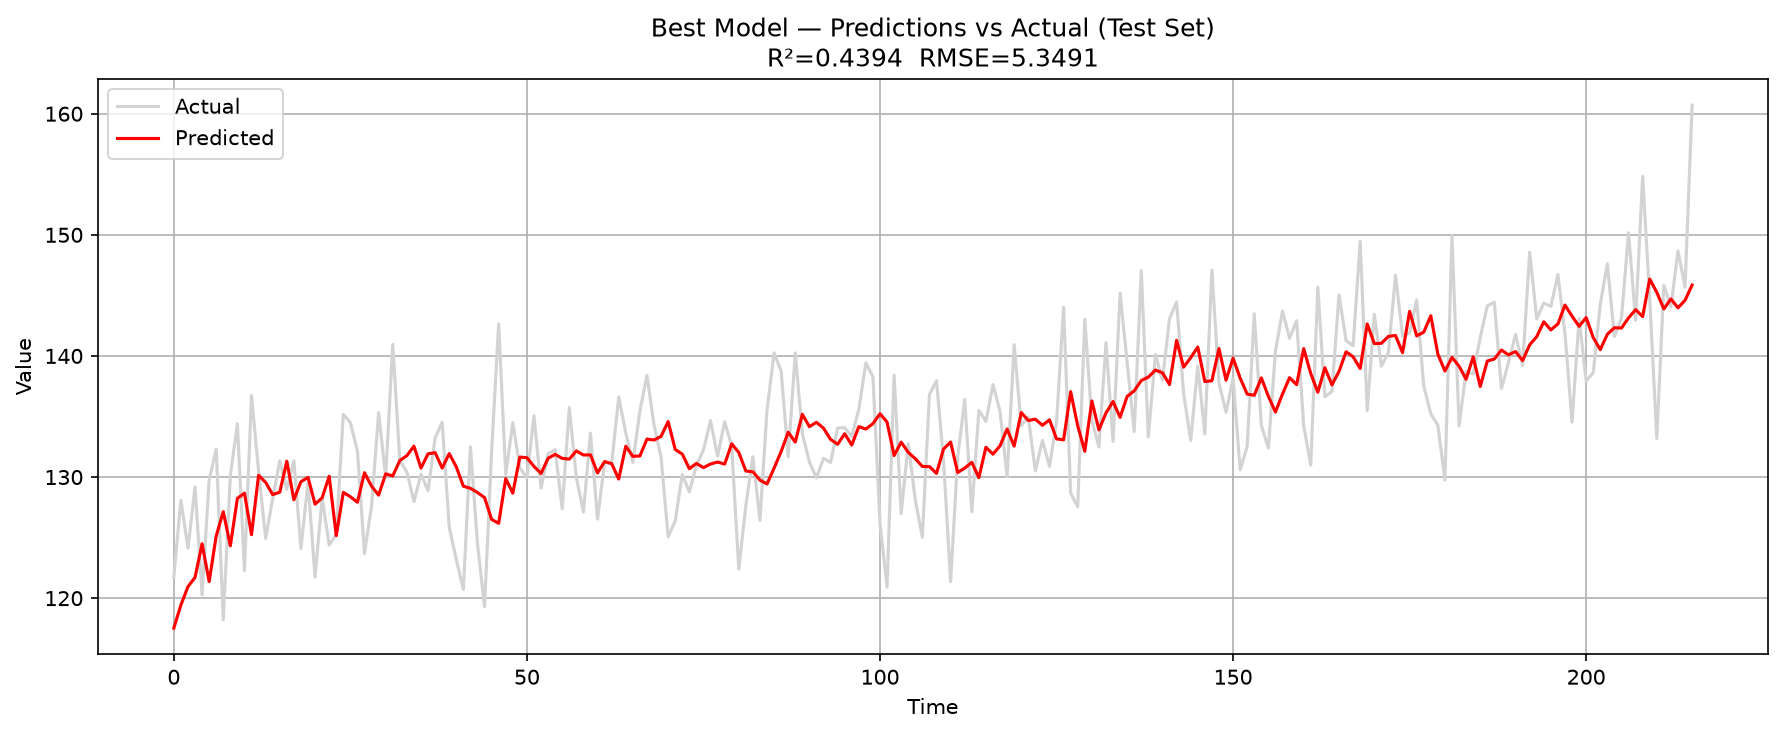
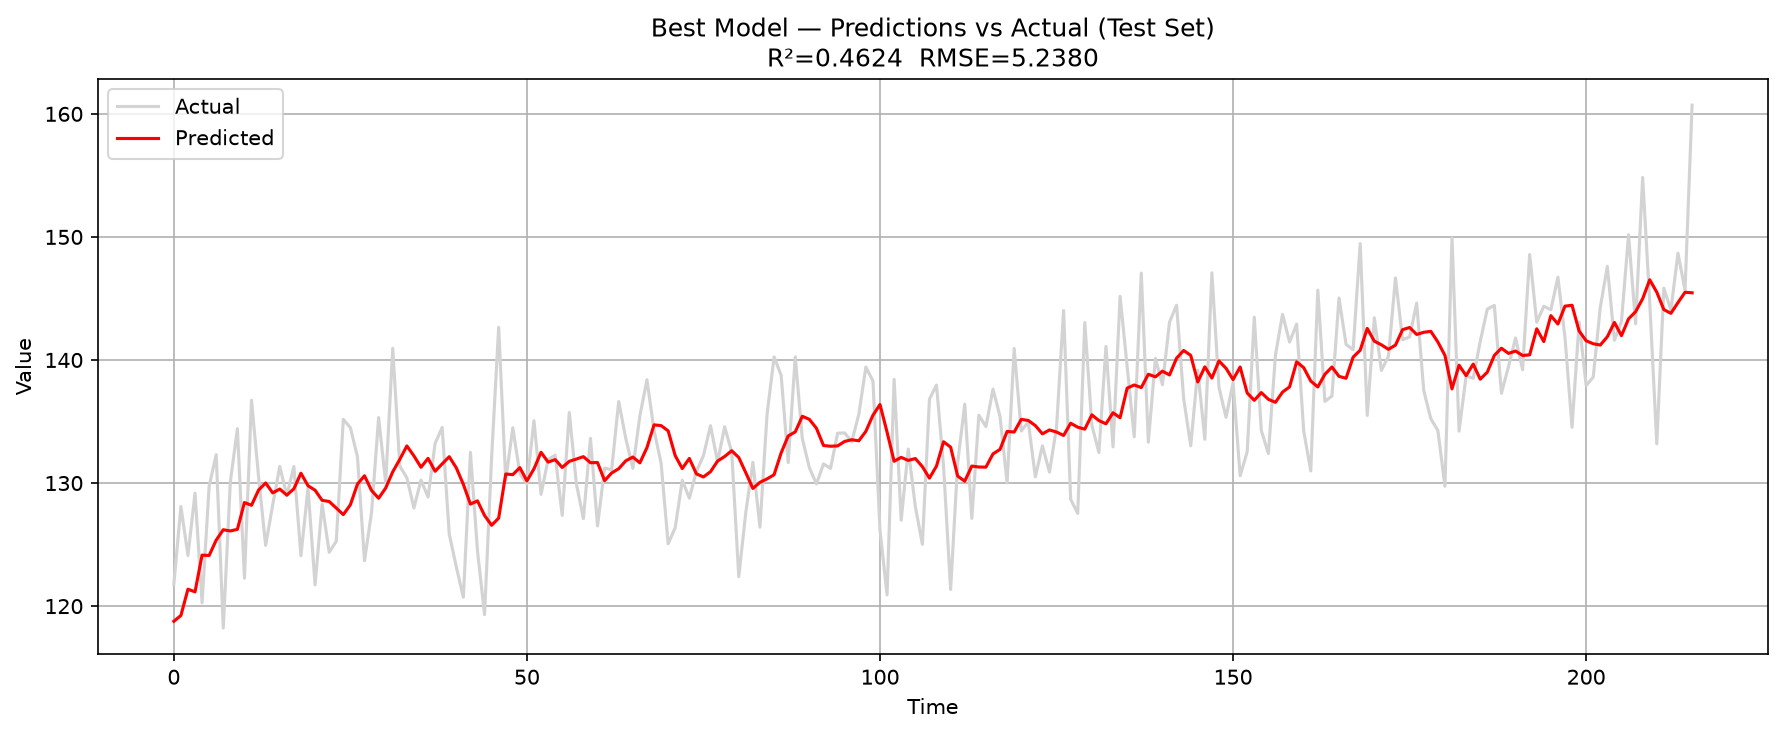
ai-note70: update v9 to select by validation loss instead of R²
- Inline code blocks: train_one_model returns 5 values (incl. best_val_loss)
- Best model selected with min(val_loss) instead of max(r2)
- Test set evaluated ONCE after winner is chosen (not per trial)
- Updated What-you-should-see output block and chart captions
- Updated full script dump at bottom of page
- Regenerated v9 loss, predictions, and bar-chart images
- Replaced time_09.py in Folder-AI-Forecast.zip with local val_loss version

diff --git a/notes/ai-note70.html b/notes/ai-note70.html
@@ -162,57 +162,67 @@
   <pre class="code-block"><code>learning_rates = [0.001, 0.01, 0.1]
 
 for lr in learning_rates:
-    model, t_losses, v_losses, epochs = train_one_model(lr)
-    r2, rmse, mae, preds, actuals = evaluate_on_test(model)</code></pre>
+    model, t_losses, v_losses, epochs, val_loss = train_one_model(lr)</code></pre>
   <p>
-    Each pass of the loop trains a complete model and grades it on the test days with version 8's
-    four measures. The results are collected in a list so they can be compared and sorted
-    afterwards.
+    Each pass of the loop trains a complete model. The function now returns five values instead
+    of four: the model, its training and validation loss curves, the actual number of epochs run,
+    and the best validation loss seen during training. We collect just that validation-loss score
+    from each run &mdash; R&sup2; on the test days is only evaluated once, after the winner is picked.
+    The results go into a list so they can be compared and sorted afterwards.
   </p>
 
   <h3>5. Keep the winner</h3>
-  <pre class="code-block"><code>best = max(results, key=lambda r: r["r2"])
+  <pre class="code-block"><code>best = min(results, key=lambda r: r["val_loss"])
 torch.save(best["model"].state_dict(), "best_model.pt")</code></pre>
   <p>
-    <code>max</code> selects a result from the <code>results</code> list. The
-    <code>key=lambda r: r["r2"]</code> part tells Python to compare the results by their R&sup2;
-    values, so the result with the highest R&sup2; is stored in <code>best</code>.
+    <code>min</code> selects a result from the <code>results</code> list. The
+    <code>key=lambda r: r["val_loss"]</code> part tells Python to compare the results by their
+    validation-loss scores, so the result with the <em>lowest</em> validation loss &mdash; the
+    winner &mdash; is stored in <code>best</code>. We use validation loss (from days the model was
+    never trained on) rather than the test set, because looking at the test set before choosing
+    would be "cheating" with data we should only use for a final honest check.
     <code>torch.save</code> then writes that model's learned weights to a file called
     <code>best_model.pt</code>. A later program can load this file and reuse the model without
     training it again.
   </p>
 
   <h2>What you should see</h2>
-  <pre class="code-block no-copy"><code>      lr   epochs        R²        RMSE         MAE
---------------------------------------------------
-   0.001       68    0.4384      5.3538      4.2973
-    0.01       37    0.4394      5.3491      4.2547
-     0.1       12    0.0881      6.8221      5.3624
+  <pre class="code-block no-copy"><code>      lr   epochs      Val Loss
+--------------------------------
+   0.001       73       39.9478
+    0.01       26       40.9754
+     0.1       73     3136.5420
 
-Best learning rate: 0.01  (R² = 0.4394)
+Best learning rate: 0.001  (Validation MSE = 39.9478)
+
+Test Set Metrics:
+  MAE:  4.3036
+  RMSE: 5.3494
+  R²:   0.4393
 Best model saved → best_model.pt</code></pre>
   <p>
     Your numbers will differ, but the pattern is what matters. The two smaller learning rates reach
-    a similar quality, and 0.01 reaches it in 37 epochs rather than 68. Both give a similar result,
-    but 0.01 needs fewer epochs. The large rate of 0.1 stops after 12 epochs with an R&sup2; of
-    0.09, because each adjustment is too large for the errors to become smaller steadily.
+    a similar low validation loss around 40, and 0.01 reaches it in 26 epochs rather than 73. Both
+    give a similar test-set R&sup2; of about 0.44, but 0.01 needs fewer epochs. The large rate of
+    0.1 has a validation loss thirty times higher, because each adjustment is too large for the
+    errors to become smaller steadily.
   </p>
   <p>
     Two things improved since version 8. R&sup2; moved from 0.24 to about 0.44, and much of that
     improvement came from early stopping rather than from the learning rate: keeping the best
-    weights instead of the final ones raises the score noticeably. Training also finishes in 37
+    weights instead of the final ones raises the score noticeably. Training also finishes in 26
     epochs instead of 100.
   </p>
-  <figure class="exhibit"><img src="/images/forecast-v9-loss.png" alt="Loss curves for the best run, falling and then flattening, with training and validation lines close together" style="max-width:100%; height:auto;"><figcaption>Loss curves of the winning run, stopped at epoch 37</figcaption></figure>
+  <figure class="exhibit"><img src="/images/forecast-v9-loss.png" alt="Loss curves for the best run, falling and then flattening, with training and validation lines close together" style="max-width:100%; height:auto;"><figcaption>Loss curves of the winning run, stopped at epoch 26</figcaption></figure>
   <figure class="exhibit"><img src="/images/forecast-v9-predictions.png" alt="Actual test-day sales in grey and predicted values in red, the red line tracking the grey more closely than before" style="max-width:100%; height:auto;"><figcaption>Actual (grey) and predicted (red) values for the test days, best run</figcaption></figure>
-  <figure class="exhibit"><img src="/images/forecast-v9-r2-bar.png" alt="Bar chart of R squared for the three learning rates, the middle bar green as the best" style="max-width:100%; height:auto;"><figcaption>R&sup2; for the three learning rates, green for the winner</figcaption></figure>
+  <figure class="exhibit"><img src="/images/forecast-v9-r2-bar.png" alt="Bar chart of validation loss for the three learning rates, the shortest bar green as the best" style="max-width:100%; height:auto;"><figcaption>Validation loss for the three learning rates, green for the winner</figcaption></figure>
 
   <h2>The whole program</h2>
   <p>
     The pieces above, put back together. This is the complete file:
   </p>
   <pre class="code-block"><code>import os
-os.environ["KMP_DUPLICATE_LIB_OK"] = "TRUE"
+os.environ[&quot;KMP_DUPLICATE_LIB_OK&quot;] = &quot;TRUE&quot;
 
 import torch
 import torch.nn as nn
@@ -229,8 +239,8 @@ def create_sliding_windows_with_target(data, window_size, shift=1):
     targets = windows[:, -1:]
     return features, targets
 
-df = pd.read_csv('time_series.csv')
-series = df['series'].values
+df = pd.read_csv(&#x27;time_series.csv&#x27;)
+series = df[&#x27;series&#x27;].values
 series_tensor = torch.tensor(series, dtype=torch.float32)
 window_size = 30
 features, targets = create_sliding_windows_with_target(series_tensor, window_size=window_size, shift=1)
@@ -252,19 +262,19 @@ val_loader   = DataLoader(Subset(full_dataset, val_indices),
 test_loader  = DataLoader(Subset(full_dataset, test_indices),
                          batch_size=32, shuffle=False)
 
-device = torch.device('cuda' if torch.cuda.is_available() else 'cpu')
+device = torch.device(&#x27;cuda&#x27; if torch.cuda.is_available() else &#x27;cpu&#x27;)
 
 # ── Visualize train/val/test split (same as time_08) ─────────────────────────
 val_start = train_size
 test_start = train_size + val_size
 plt.figure(figsize=(12, 4))
-plt.plot(range(val_start), series[:val_start], 'b-', label='Training Data')
-plt.plot(range(val_start, test_start), series[val_start:test_start], 'r-', label='Validation Data')
-plt.plot(range(test_start, len(series)), series[test_start:], 'g-', label='Test Data')
-plt.axvline(x=val_start, color='k', linestyle='--', label='Train/Val Split')
-plt.axvline(x=test_start, color='purple', linestyle='--', label='Val/Test Split')
-plt.title('Time Series Train/Validation/Test Split')
-plt.xlabel('Time'); plt.ylabel('Value')
+plt.plot(range(val_start), series[:val_start], &#x27;b-&#x27;, label=&#x27;Training Data&#x27;)
+plt.plot(range(val_start, test_start), series[val_start:test_start], &#x27;r-&#x27;, label=&#x27;Validation Data&#x27;)
+plt.plot(range(test_start, len(series)), series[test_start:], &#x27;g-&#x27;, label=&#x27;Test Data&#x27;)
+plt.axvline(x=val_start, color=&#x27;k&#x27;, linestyle=&#x27;--&#x27;, label=&#x27;Train/Val Split&#x27;)
+plt.axvline(x=test_start, color=&#x27;purple&#x27;, linestyle=&#x27;--&#x27;, label=&#x27;Val/Test Split&#x27;)
+plt.title(&#x27;Time Series Train/Validation/Test Split&#x27;)
+plt.xlabel(&#x27;Time&#x27;); plt.ylabel(&#x27;Value&#x27;)
 plt.legend(); plt.grid(True); plt.show()
 
 # ── Model (same as time_07/08) ────────────────────────────────────────────────
@@ -293,7 +303,7 @@ def train_one_model(lr):
     criterion = nn.MSELoss()
     optimizer = optim.Adam(model.parameters(), lr=lr)
 
-    best_val_loss = float('inf')
+    best_val_loss = float(&#x27;inf&#x27;)
     best_state    = {k: v.clone() for k, v in model.state_dict().items()}
     patience_ctr  = 0
     train_losses, val_losses = [], []
@@ -338,7 +348,7 @@ def train_one_model(lr):
     # restore the best weights
     model.load_state_dict(best_state)
     actual_epochs = len(train_losses)
-    return model, train_losses, val_losses, actual_epochs
+    return model, train_losses, val_losses, actual_epochs, best_val_loss
 
 # ── NEW: evaluate on test set (returns R², RMSE, MAE) ────────────────────────
 def evaluate_on_test(model):
@@ -359,61 +369,65 @@ def evaluate_on_test(model):
     r2 = (1 - ss_res / ss_tot).item()
     return r2, rmse, mae, preds, actuals
 
-# ── NEW: manually try 3 learning rates ────────────────────────────────────────
-# Instead of picking one optimizer and one learning rate, we run the same
-# training procedure three times with different learning rates and compare.
+# ── Manually try 3 learning rates; select by validation loss ─────────────────
 learning_rates = [0.001, 0.01, 0.1]
 results = []
 
-print(f"{'lr':&gt;8}  {'epochs':&gt;7}  {'R²':&gt;8}  {'RMSE':&gt;10}  {'MAE':&gt;10}")
-print("-" * 50)
+print(f&quot;{&#x27;lr&#x27;:&gt;8}  {&#x27;epochs&#x27;:&gt;7}  {&#x27;Val Loss&#x27;:&gt;12}&quot;)
+print(&quot;-&quot; * 32)
 
 for lr in learning_rates:
-    model, t_losses, v_losses, epochs = train_one_model(lr)
-    r2, rmse, mae, preds, actuals = evaluate_on_test(model)
-
+    model, t_losses, v_losses, epochs, val_loss = train_one_model(lr)
     results.append({
-        "lr": lr, "epochs": epochs,
-        "r2": round(r2, 4), "rmse": round(rmse, 4), "mae": round(mae, 4),
-        "model": model, "t_losses": t_losses, "v_losses": v_losses,
-        "preds": preds, "actuals": actuals,
+        &quot;lr&quot;: lr, &quot;epochs&quot;: epochs, &quot;val_loss&quot;: val_loss,
+        &quot;model&quot;: model, &quot;t_losses&quot;: t_losses, &quot;v_losses&quot;: v_losses,
     })
-    print(f"{lr:&gt;8}  {epochs:&gt;7}  {r2:&gt;8.4f}  {rmse:&gt;10.4f}  {mae:&gt;10.4f}")
+    print(f&quot;{lr:&gt;8}  {epochs:&gt;7}  {val_loss:&gt;12.4f}&quot;)
 
-# ── Pick the best trial and save ──────────────────────────────────────────────
-best = max(results, key=lambda r: r["r2"])
-print(f"\nBest learning rate: {best['lr']}  (R² = {best['r2']:.4f})")
+# ── Select on validation data, then evaluate the test set once ───────────────
+best = min(results, key=lambda r: r[&quot;val_loss&quot;])
+print(f&quot;\nBest learning rate: {best[&#x27;lr&#x27;]}  (Validation MSE = {best[&#x27;val_loss&#x27;]:.4f})&quot;)
 
-torch.save(best["model"].state_dict(), "best_model.pt")
-print("Best model saved → best_model.pt")
+r2, rmse, mae, preds, actuals = evaluate_on_test(best[&quot;model&quot;])
+best.update({&quot;r2&quot;: r2, &quot;rmse&quot;: rmse, &quot;mae&quot;: mae, &quot;preds&quot;: preds, &quot;actuals&quot;: actuals})
+
+print(f&quot;\nTest Set Metrics:&quot;)
+print(f&quot;  MAE:  {mae:.4f}&quot;)
+print(f&quot;  RMSE: {rmse:.4f}&quot;)
+print(f&quot;  R²:   {r2:.4f}&quot;)
+
+torch.save(best[&quot;model&quot;].state_dict(), &quot;best_model.pt&quot;)
+print(&quot;Best model saved → best_model.pt&quot;)
 
 # ── Plots ──────────────────────────────────────────────────────────────────────
 # 1. Loss curves for the best trial
 plt.figure(figsize=(10, 5))
-plt.plot(best["t_losses"], label="Train Loss")
-plt.plot(best["v_losses"], label="Val Loss")
-plt.title(f"Best Model — Loss Curves\nlr={best['lr']}  (stopped at epoch {best['epochs']})")
-plt.xlabel("Epoch"); plt.ylabel("MSE Loss")
+plt.plot(best[&quot;t_losses&quot;], label=&quot;Train Loss&quot;)
+plt.plot(best[&quot;v_losses&quot;], label=&quot;Val Loss&quot;)
+plt.title(f&quot;Best Model — Loss Curves\nlr={best[&#x27;lr&#x27;]}  (stopped at epoch {best[&#x27;epochs&#x27;]})&quot;)
+plt.xlabel(&quot;Epoch&quot;); plt.ylabel(&quot;MSE Loss&quot;)
 plt.legend(); plt.grid(True); plt.tight_layout(); plt.show()
 
 # 2. Predictions vs actual on test set (best trial)
 plt.figure(figsize=(12, 5))
-plt.plot(best["actuals"], label="Actual",    color="lightgrey", linewidth=1.5)
-plt.plot(best["preds"],   label="Predicted", color="red",       linewidth=1.5)
-plt.title(f"Best Model — Predictions vs Actual (Test Set)\nR²={best['r2']:.4f}  RMSE={best['rmse']:.4f}")
-plt.xlabel("Time"); plt.ylabel("Value")
+plt.plot(best[&quot;actuals&quot;], label=&quot;Actual&quot;,    color=&quot;lightgrey&quot;, linewidth=1.5)
+plt.plot(best[&quot;preds&quot;],   label=&quot;Predicted&quot;, color=&quot;red&quot;,       linewidth=1.5)
+plt.title(f&quot;Best Model — Predictions vs Actual (Test Set)\nR²={best[&#x27;r2&#x27;]:.4f}  RMSE={best[&#x27;rmse&#x27;]:.4f}&quot;)
+plt.xlabel(&quot;Time&quot;); plt.ylabel(&quot;Value&quot;)
 plt.legend(); plt.grid(True); plt.tight_layout(); plt.show()
 
-# 3. R² bar chart comparing all 3 trials
+# 3. Validation-loss bar chart comparing all 3 trials
 plt.figure(figsize=(8, 4))
-lrs = [str(r["lr"]) for r in results]
-r2s = [r["r2"] for r in results]
-colors = ["#4472C4" if r["lr"] != best["lr"] else "#70AD47" for r in results]
-plt.bar(lrs, r2s, color=colors)
-plt.axhline(best["r2"], color="red", linestyle="--", linewidth=1, label=f"Best R²={best['r2']:.4f}")
-plt.title("R² Across 3 Learning Rates (green = best)")
-plt.xlabel("Learning Rate"); plt.ylabel("R²")
-plt.legend(); plt.grid(axis="y", alpha=0.4); plt.tight_layout(); plt.show()</code></pre>
+lrs = [str(r[&quot;lr&quot;]) for r in results]
+val_losses = [r[&quot;val_loss&quot;] for r in results]
+colors = [&quot;#4472C4&quot; if r[&quot;lr&quot;] != best[&quot;lr&quot;] else &quot;#70AD47&quot; for r in results]
+plt.bar(lrs, val_losses, color=colors)
+plt.axhline(best[&quot;val_loss&quot;], color=&quot;red&quot;, linestyle=&quot;--&quot;, linewidth=1,
+            label=f&quot;Best Val Loss={best[&#x27;val_loss&#x27;]:.4f}&quot;)
+plt.title(&quot;Validation Loss Across 3 Learning Rates (green = best)&quot;)
+plt.xlabel(&quot;Learning Rate&quot;); plt.ylabel(&quot;Validation MSE Loss&quot;)
+plt.legend(); plt.grid(axis=&quot;y&quot;, alpha=0.4); plt.tight_layout(); plt.show()
+</code></pre>
 
   <h2>Running it on your own computer</h2>
   <p>
